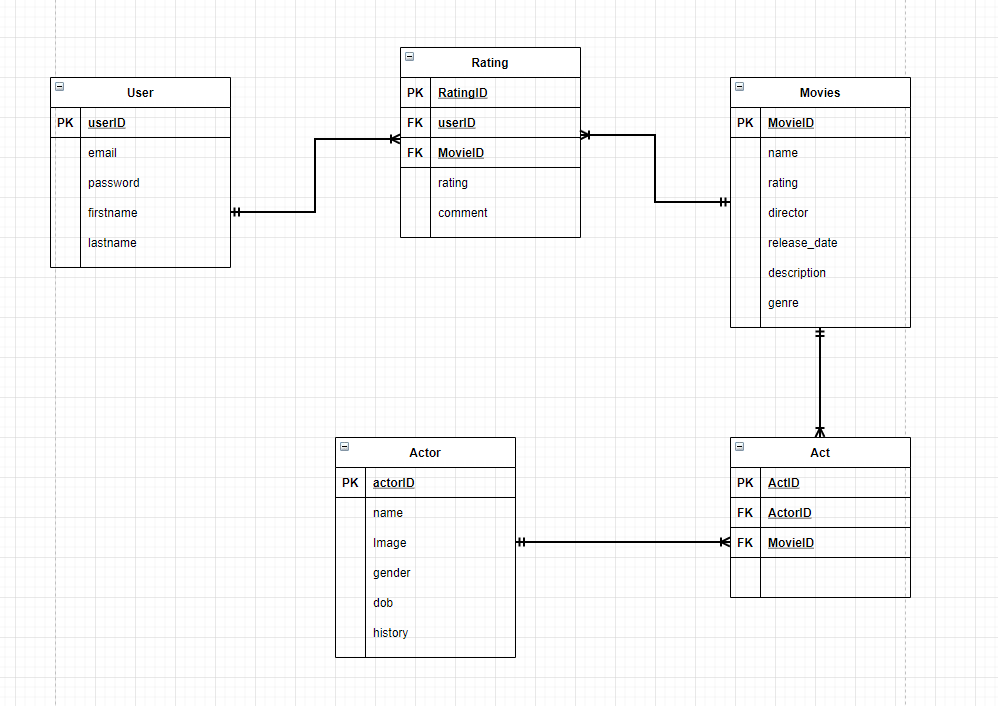
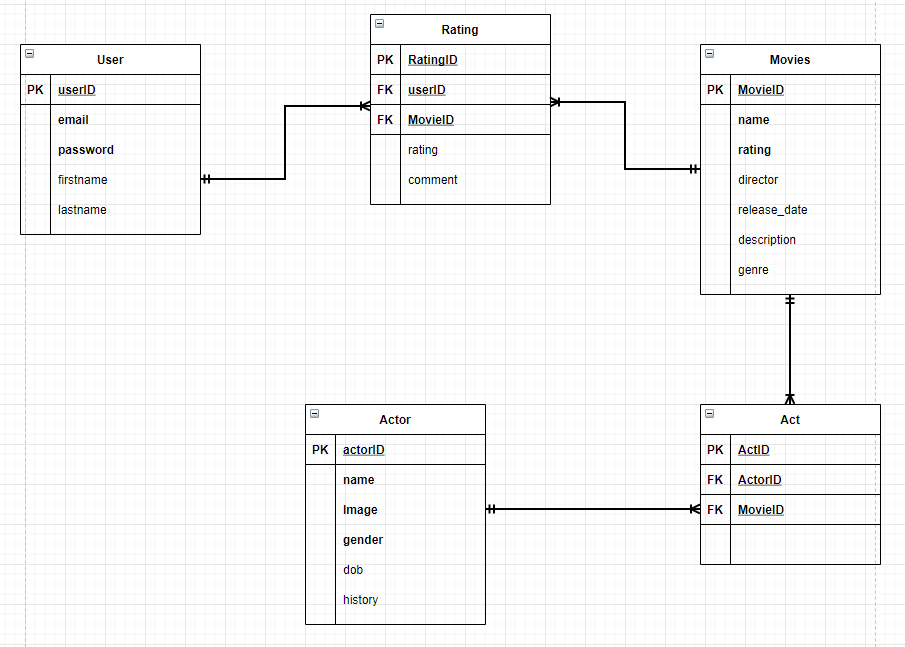
added movie Route, ERDiagram, store session inside sqlite

diff --git a/Routes/movieRoutes.js b/Routes/movieRoutes.js
@@ -1,0 +1,98 @@
+const requireLogin = require('./requireLogin')
+const axios = require('axios')
+const config = require('../config')
+
+module.exports = app => {
+    app.get('/movie/now_playing', requireLogin, async (req, res) => {
+        let page = req.query.page ? req.query.page : 1;
+        try {
+            let result = await sendGET("/movie/now_playing", page);
+            res.status(200).send(result.results);
+        } catch (e) {
+            res.status(404).send({ status: false})
+        }
+    })
+
+    app.get('/movie/trending', requireLogin, async (req, res) => {
+        let page = req.query.page ? req.query.page : 1;
+        try {
+            let result = await sendGET("/movie/popular", page);
+            res.status(200).send(result.results);
+        } catch (e) {
+            res.status(404).send({ status: false})
+        }
+    })
+
+    app.get('/movie/latest', requireLogin, async (req, res) => {
+        let page = req.query.page ? req.query.page : 1;
+        try {
+            let result = await sendGET("/movie/latest", page);
+            res.status(200).send(result.results);
+        } catch (e) {
+            res.status(404).send({ status: false})
+        }
+    })
+
+    app.get('/movie/search', requireLogin, async (req, res) => {
+        let kw = req.query.search
+        let page = req.query.page ? req.query.page : 1;
+        if (!kw) return res.status(404).send({status: false, message: "search param not found"});
+
+        try {
+            const response = await axios({
+                method: 'get',
+                url: `${config.host}/search/movie`,
+                headers: {
+                    'Content-Type': 'application/json'
+                },
+                params: {
+                    api_key: config.apiKey,
+                    query: kw,
+                    page
+                }
+            })
+            res.status(200).send(response.data.results)
+        } catch (e) {
+            res.status(404).send({status: false, message: `can't search movie`})
+        }
+    })
+
+    app.get('/movie/:id/cast', requireLogin, async (req, res) => {
+        let id = req.params.id; 
+
+        try {
+            const response = await axios({
+                method: 'get',
+                url: `${config.host}/movie/${id}/credits`,
+                headers: {
+                    'Content-Type': 'application/json'
+                },
+                params: {
+                    api_key: config.apiKey,
+                }
+            })
+            res.status(200).send(response.data.cast)
+        } catch (e) {
+            res.status(404).send({status: false, message: `Movie Id Not Found`})
+        }
+    })
+}
+
+async function sendGET(path, page) {
+    try {
+        const response = await axios({
+            method: 'get',
+            url: `${config.host}${path}`,
+            headers: {
+                'Content-Type': 'application/json'
+            },
+            params: {
+                api_key: config.apiKey,
+                page
+            }
+        })
+        return response.data
+    } catch (e) {
+        return e.response.data
+    }
+}

diff --git a/Routes/authRoutes.js b/Routes/authRoutes.js
@@ -7,13 +7,15 @@ const requireLogin = require('./requireLogin');
 
 module.exports = app => {
     app.post('/api/signup', (req, res) => {
+        let firstname = req.body.firstname
+        let lastname = req.body.lastname
         let username = req.body.email
         let password = req.body.password
 
         const salt = bcrypt.genSaltSync(saltRound)
         const hashPass = bcrypt.hashSync(password, salt)
 
-        db.run('INSERT INTO User (username, password) VALUES(?, ?)', [username, hashPass], (err) => {
+        db.run('INSERT INTO User (email, password, first_name, last_name) VALUES(?, ?, ?, ?)', [username, hashPass, firstname, lastname], (err) => {
             if (err) {
                 return res.status(404).send({ success: false, error: err.message });
             }
@@ -29,7 +31,7 @@ module.exports = app => {
         const salt = bcrypt.genSaltSync(saltRound)
         const hashPass = bcrypt.hashSync(newPassword, salt)
 
-        db.run('UPDATE User SET password = ? WHERE username = ?', [hashPass, username], (err) => {
+        db.run('UPDATE User SET password = ? WHERE email = ?', [hashPass, username], (err) => {
             if (err) {
                 return res.status(404).send({ success: false, error: err.message });
             }
@@ -40,7 +42,7 @@ module.exports = app => {
     app.delete('/api/account', requireLogin, (req, res) => {
         let username = req.body.email
 
-        db.run('DELETE from User WHERE username = ?', [username], (err) => {
+        db.run('DELETE from User WHERE email = ?', [username], (err) => {
             if (err) {
                 return res.status(404).send({ success: false, error: err.message });
             }

diff --git a/app.js b/app.js
@@ -1,8 +1,10 @@
 const express = require('express')
 const cookieSession = require('express-session')
 const passport = require('passport')
+const SQLiteStore = require('connect-sqlite3')(cookieSession)
 
 require('./services/passport')
+require('./services/database')
 
 const app = express()
 
@@ -13,6 +15,13 @@ app.use(
         secret: 'secretkey',
         resave: false,
         saveUninitialized: false,
+        cookie: {
+            MaxAge: 1000 * 60 * 60 * 24
+        },
+        store: new SQLiteStore({
+            table: 'sessions',
+            db: './NexFlin.sqlite'
+        }),
     })
 );
 app.use(passport.initialize())
@@ -20,6 +29,7 @@ app.use(passport.session())
 app.use(express.static('public'));
 
 require('./routes/authRoutes')(app)
+require('./routes/movieRoutes')(app)
 require('./routes/viewRoutes')(app)
 
 const PORT = 3000 || process.env.PORT

diff --git a/services/passport.js b/services/passport.js
@@ -16,7 +16,7 @@ passport.use(new localStrategy({
         usernameField: 'email',
         passwordField: 'password'
     }, function (username, password, done) {
-        db.all(`SELECT * FROM User WHERE username = ?`, [username] , (err, rows) => {
+        db.all(`SELECT * FROM User WHERE email = ?`, [username] , (err, rows) => {
             if (err) return done(err)
             if (rows.length == 0) return done(null, false, {message: 'Incorrect username'})
             if (!bcrypt.compareSync(password, rows[0].password)) return done(null, false, {message: 'Incorrect password'})

diff --git a/config.js b/config.js
@@ -1,3 +1,5 @@
 module.exports = {
     saltRound: 13,
+    apiKey: '9db87782d01ea00e005e49fb16d27c92',
+    host: 'https://api.themoviedb.org/3',
 }

diff --git a/README.md b/README.md
@@ -9,5 +9,9 @@ We will write tests after each feature we implement, to make sure that it is a f
 
 ## ER Diagram of Database
 
+```
+Note: Bold word means that attributes is NOT NULL
+```
+
 ![ERDiag.png](ERDiag.png)
 
